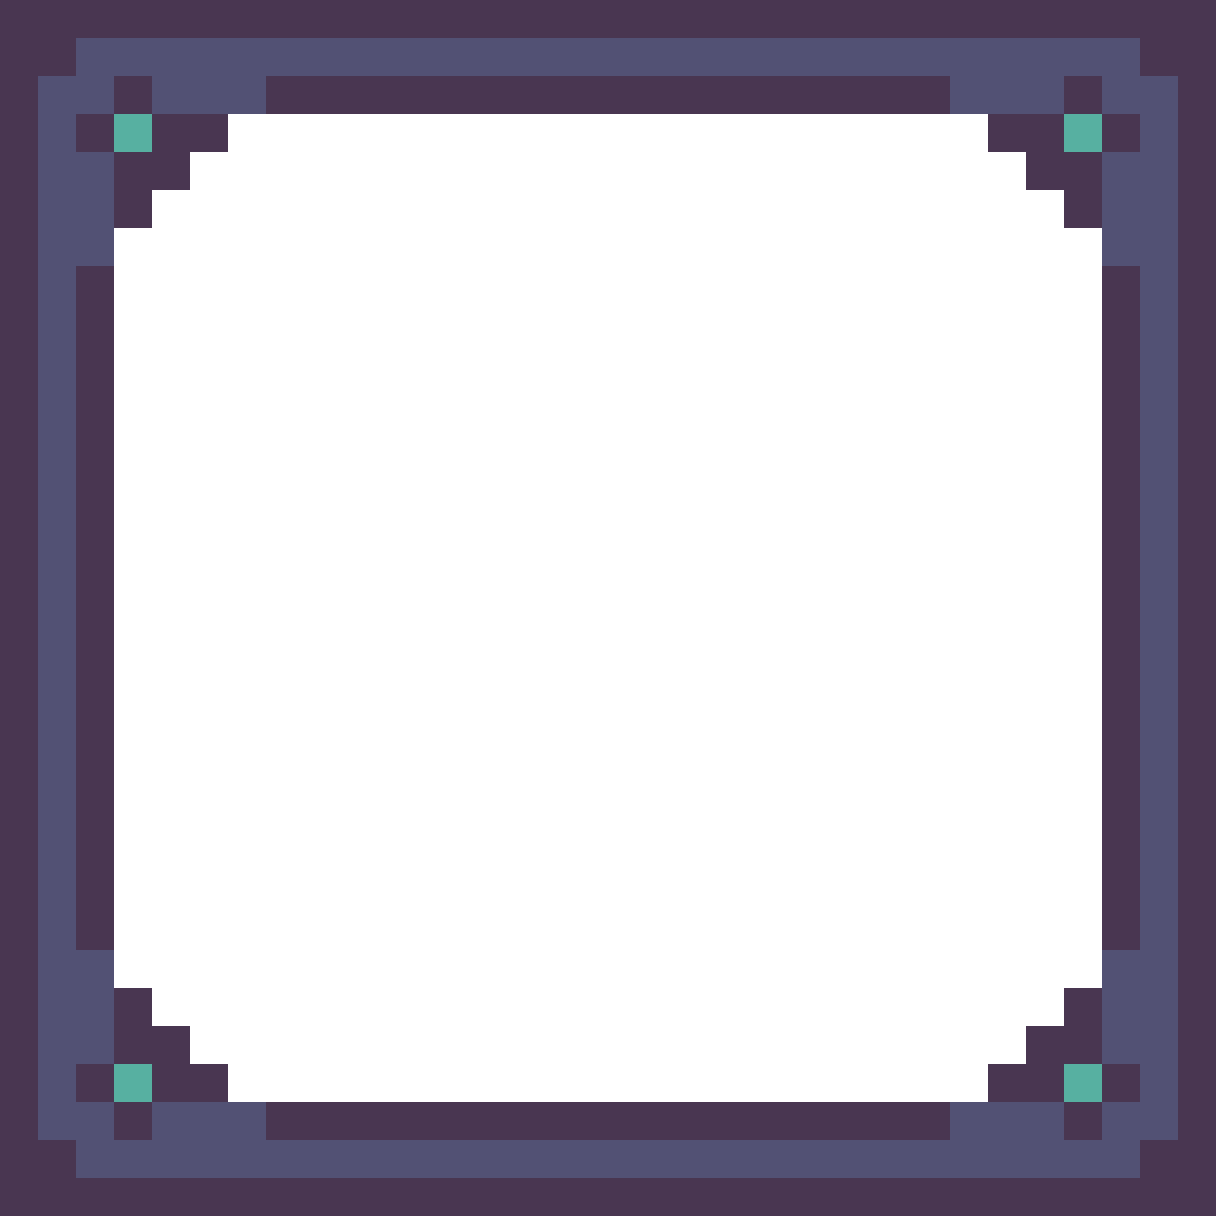
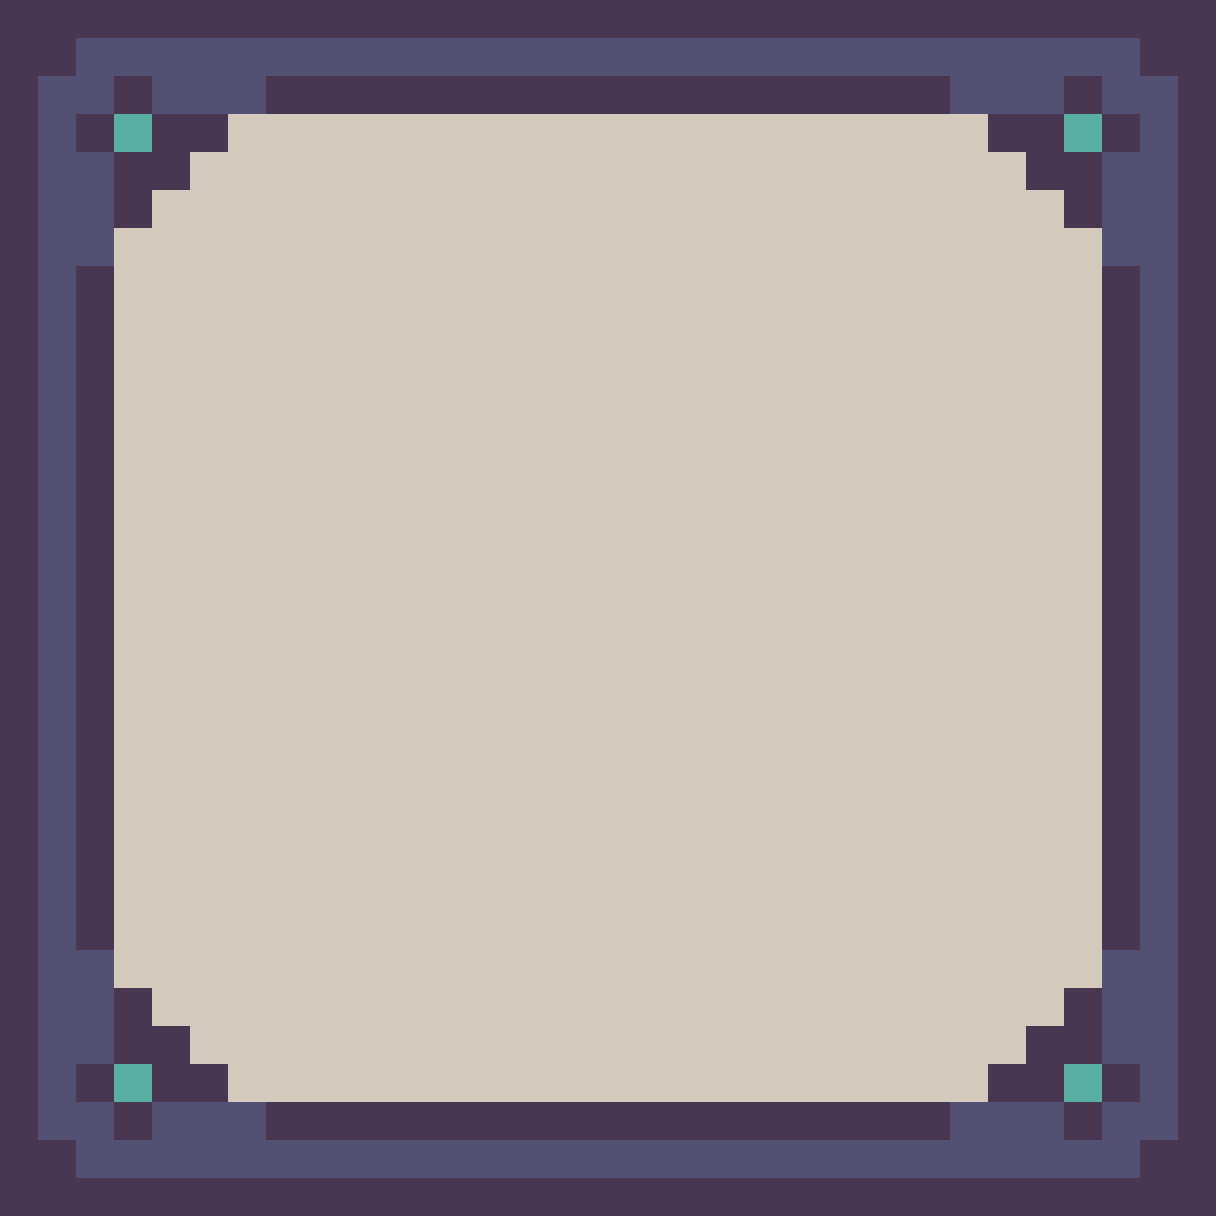
Cambio de frame de los puzzles
Cambio de frame y recolocación

diff --git a/src/puzzles/BasePuzzle.ts b/src/puzzles/BasePuzzle.ts
@@ -68,8 +68,7 @@ export default abstract class BasePuzzle extends Phaser.Scene {
      */
     this.container = this.add.container(
       this.game.config.width / 2,
-      this.game.config.height / 2
-    );
+      this.game.config.height - this.frameHeight/2 - 48*2   );
     this.container.width = this.frameWidth;
     this.container.height = this.frameHeight;
 
@@ -81,10 +80,10 @@ export default abstract class BasePuzzle extends Phaser.Scene {
         0,
         this.frameWidth,
         this.frameHeight,
-        1,
-        1,
-        1,
-        0
+        4,
+        4,
+        4,
+        4
       )
       .setAlpha(0.8);
     this.container.add(frame);

diff --git a/src/boot.js b/src/boot.js
@@ -67,7 +67,7 @@ import babyLaugh from "../assets/sprites/babyLaugh.png";
 import brownFrame from "../assets/ui/brown.png";
 import exitIcon from "../assets/ui/exit2.png";
 import flare from "../assets/ui/white-flare.png";
-import backgroundTile from "../assets/ui/bg.png";
+import backgroundTile from "../assets/ui/frame.png";//"../assets/ui/bg.png";
 /* ----- UI FIN -----*/
 
 
